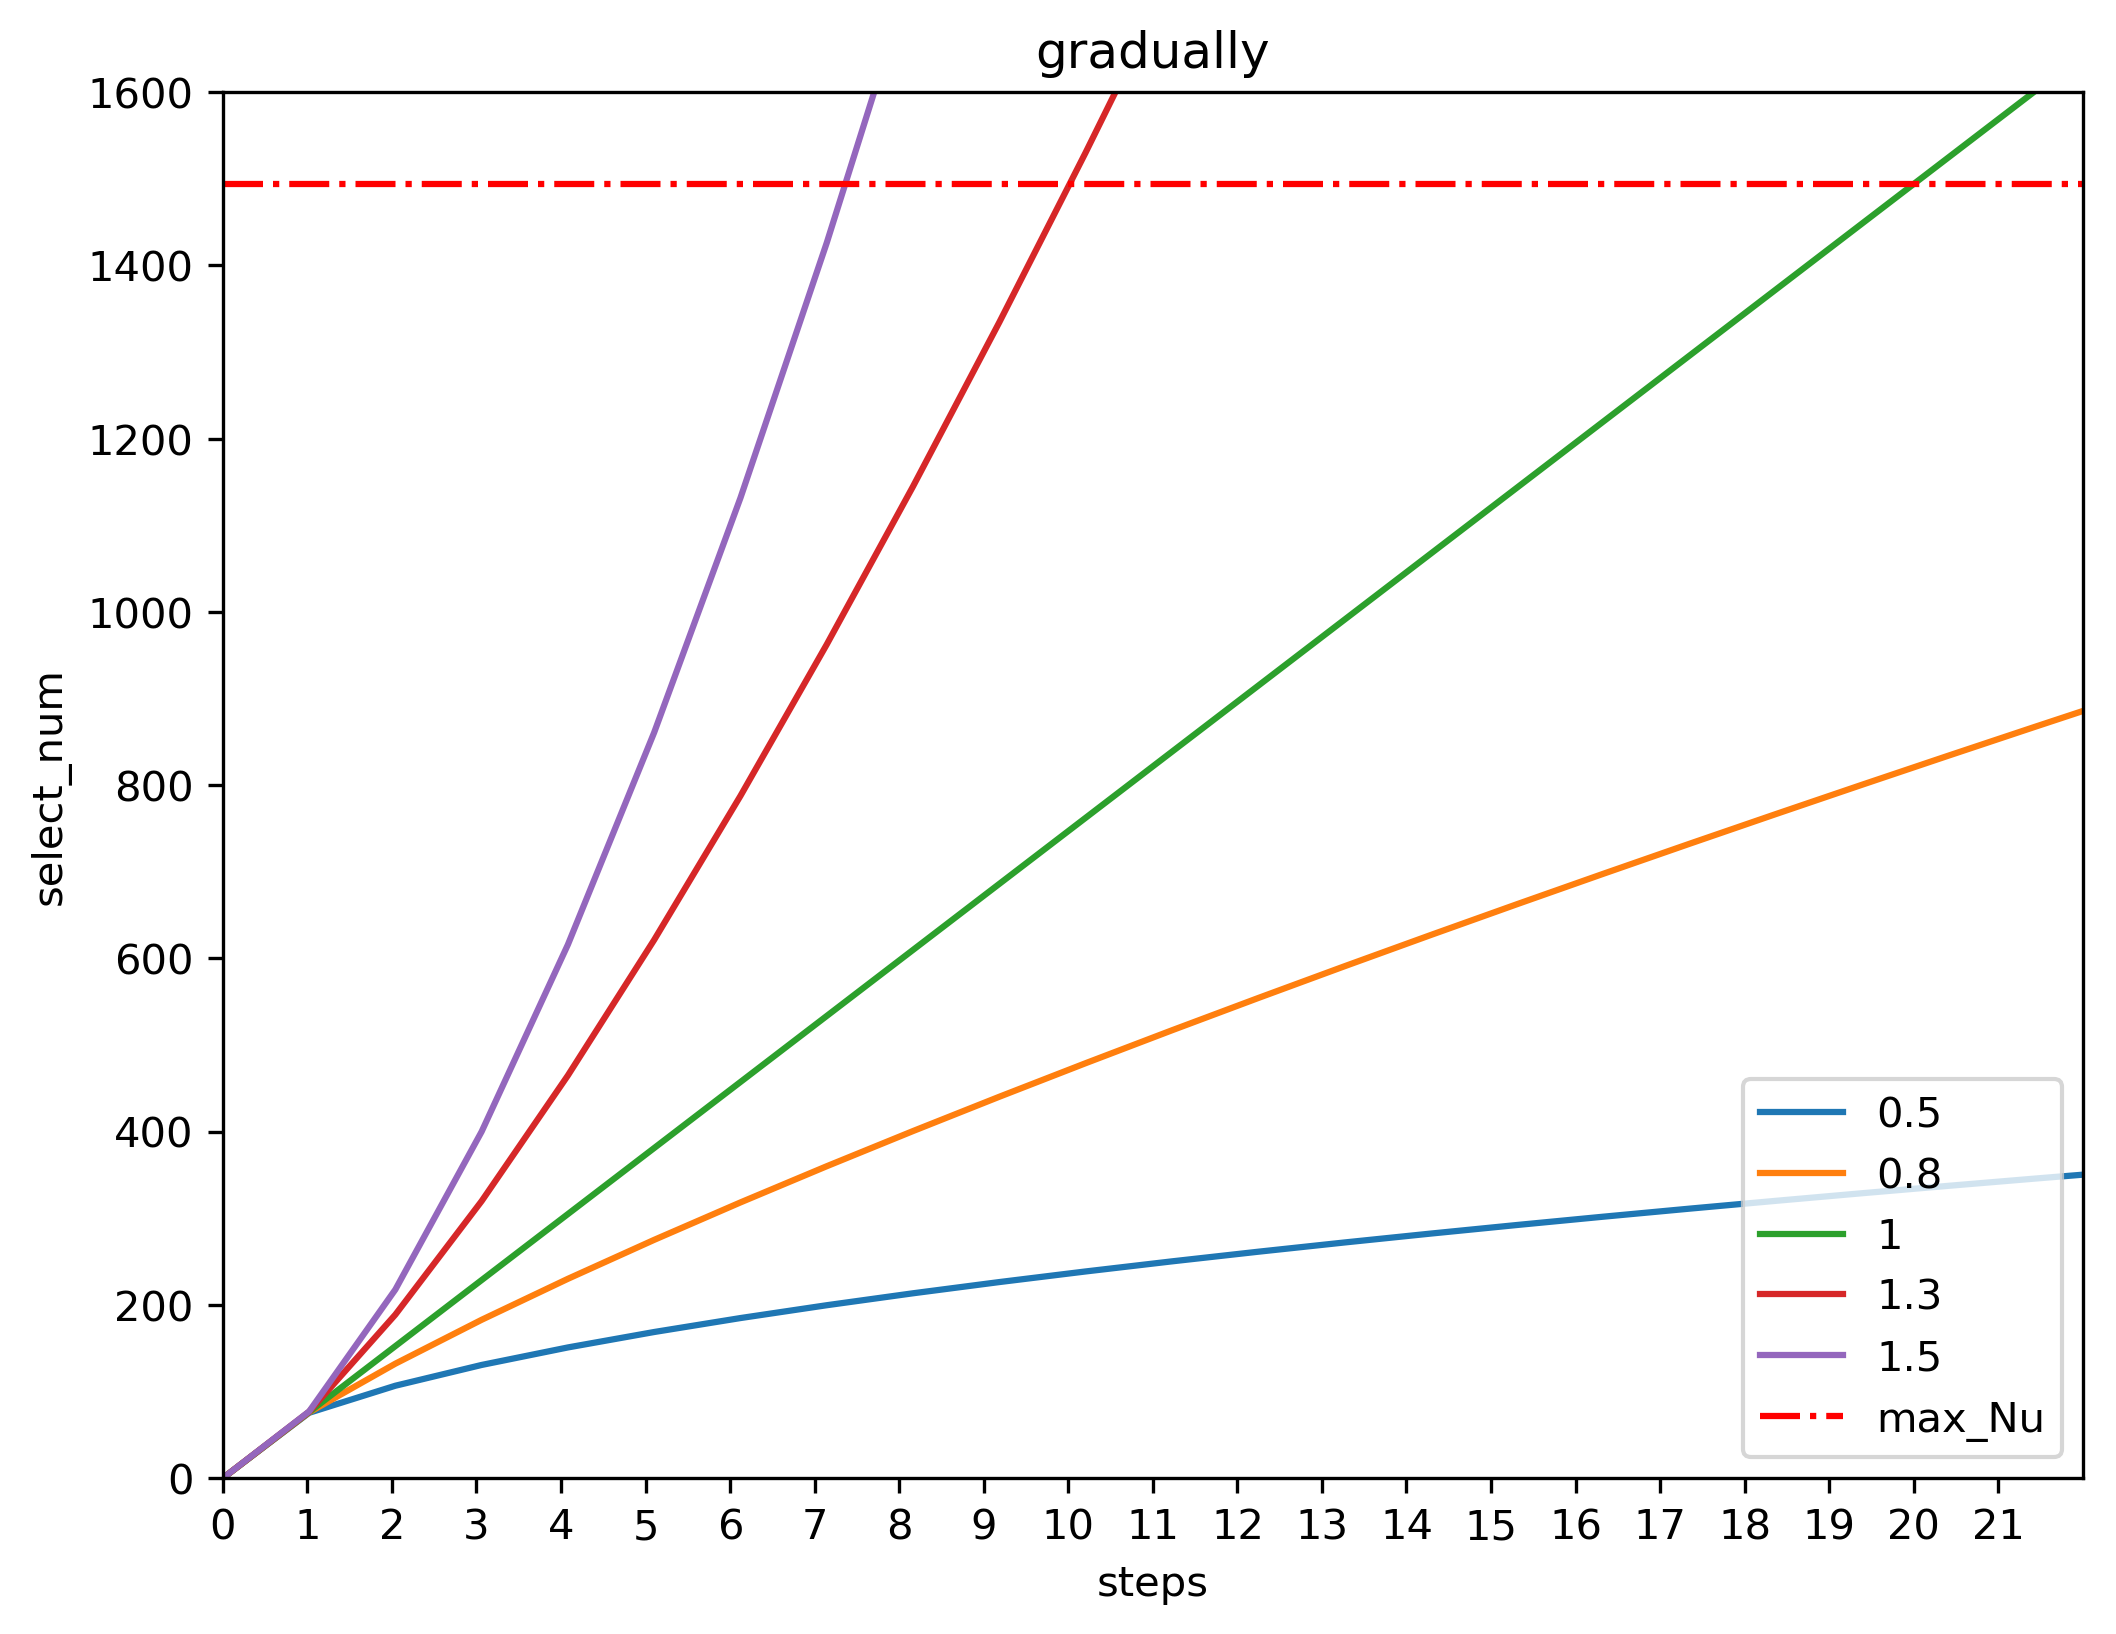
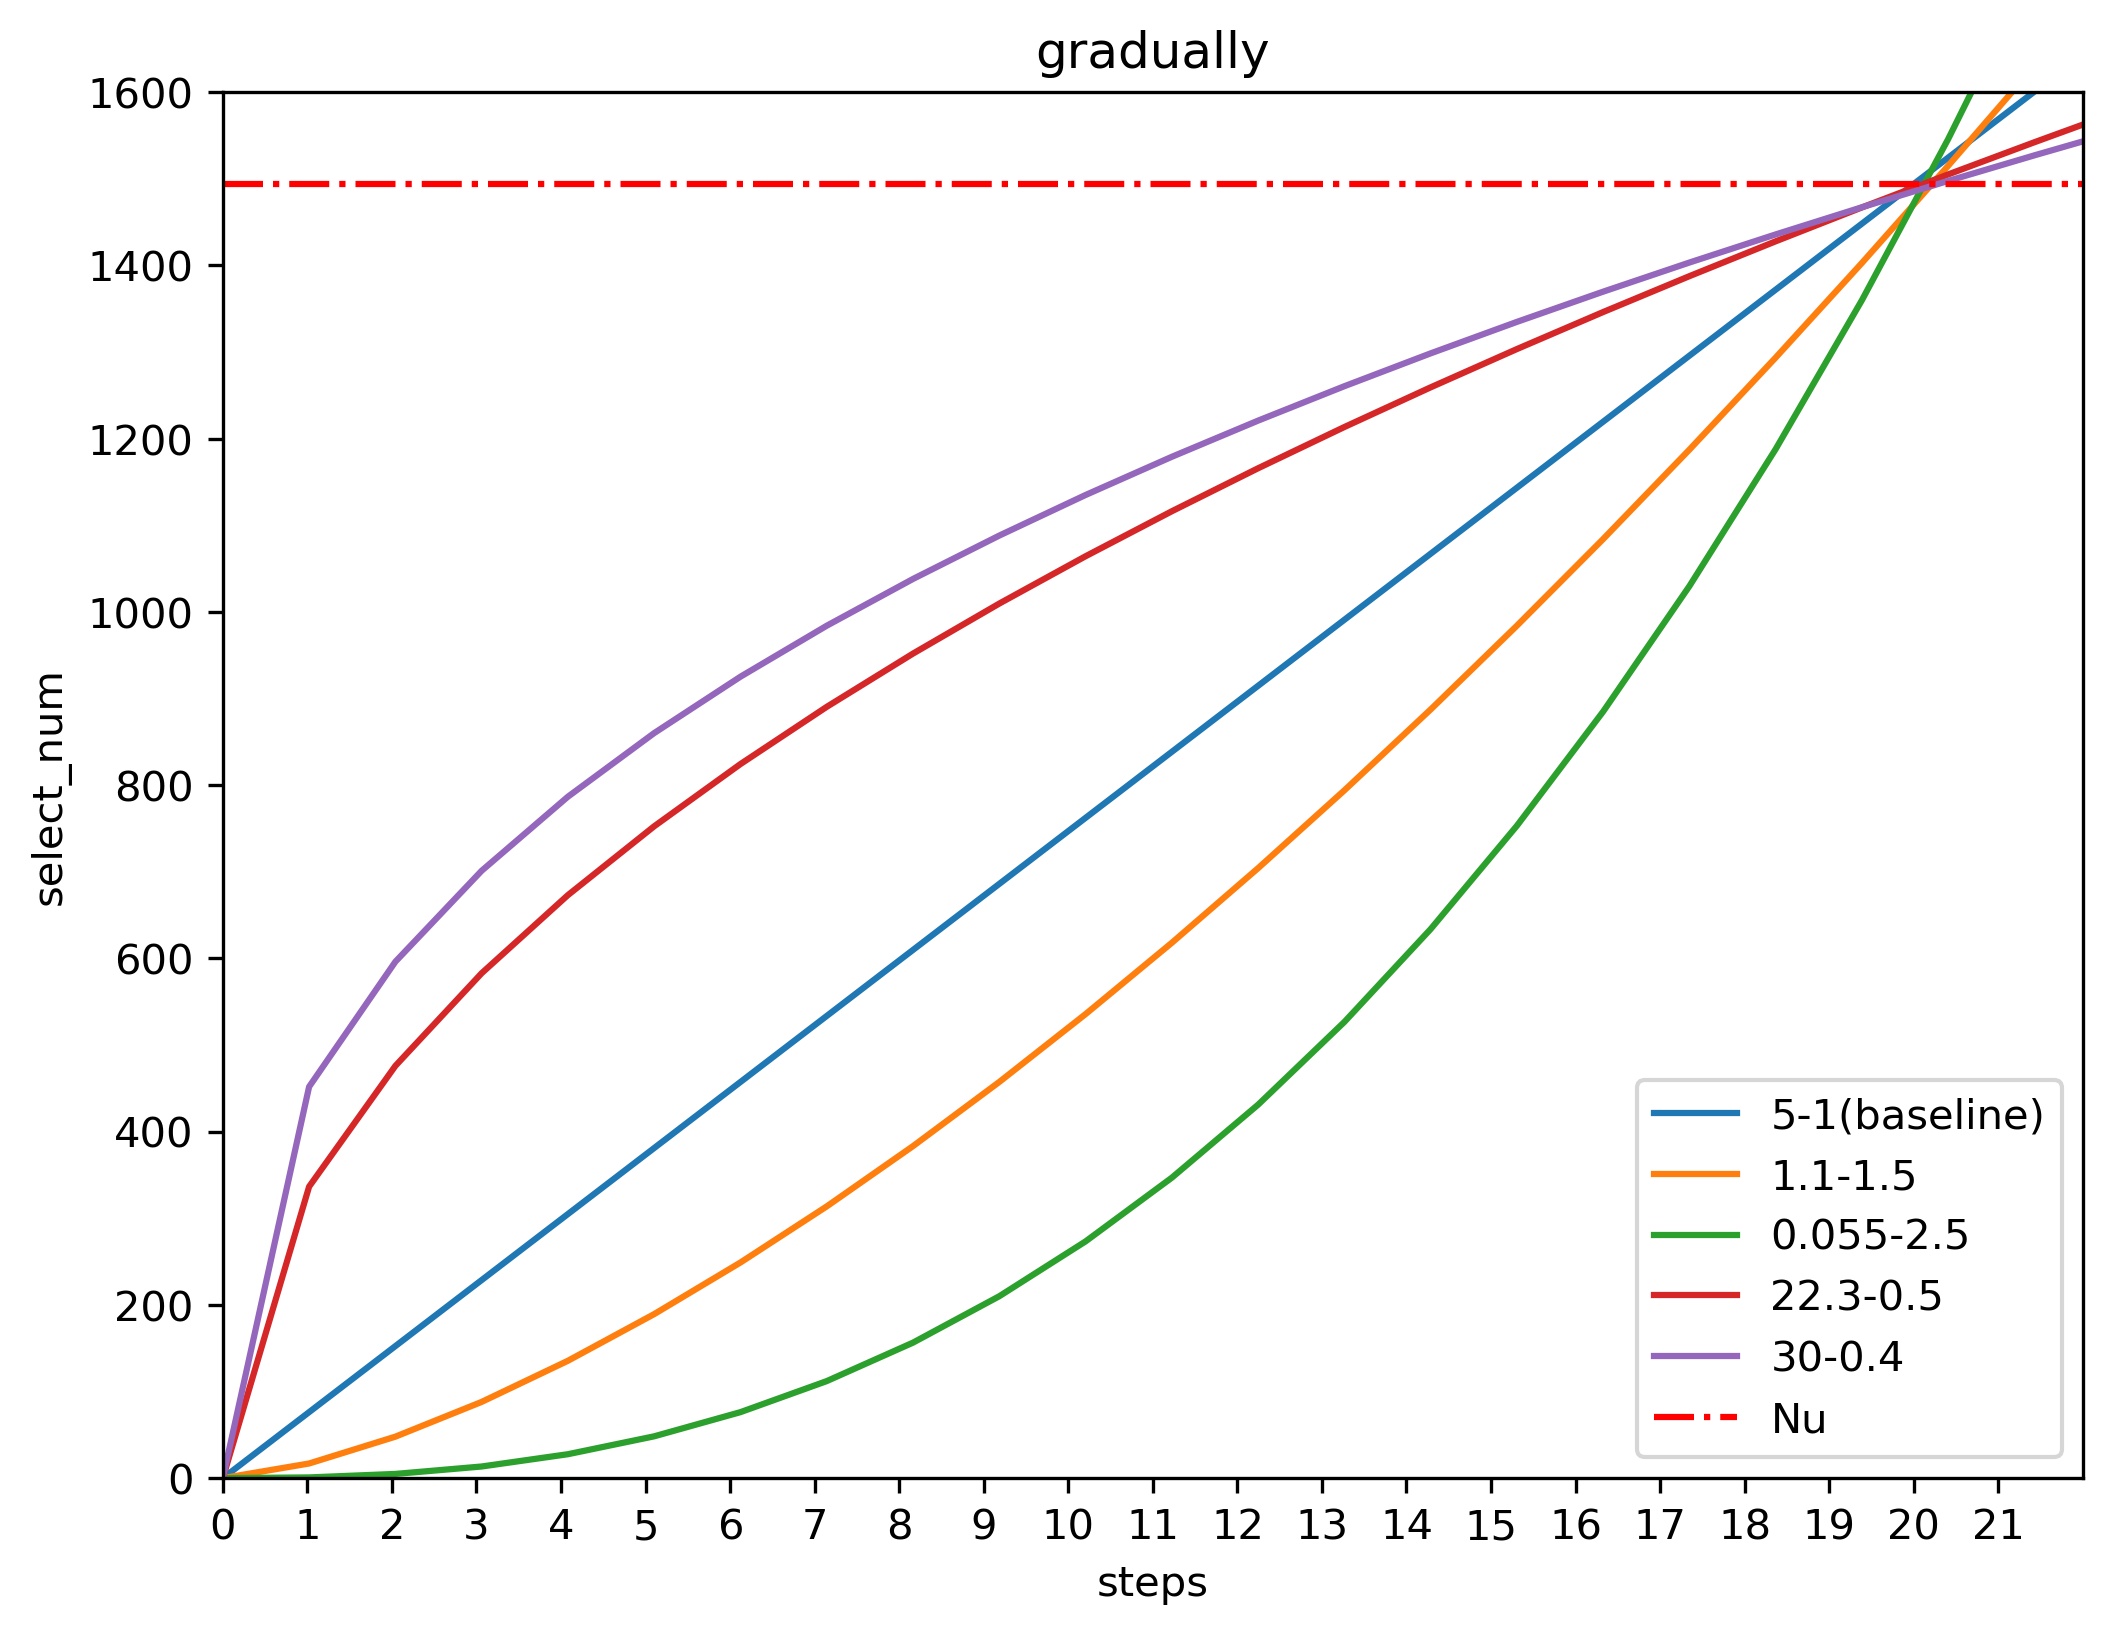
11.15 重新绘制的渐进采样曲线

diff --git a/main.py b/main.py
@@ -27,29 +27,29 @@ def draw_line():
 
     # for q in np.linspace(1,2,0.2):
     plt.figure(figsize=(8, 6), dpi=300)
-    plt.plot(x, Nu * pow(x, 0.5) * 0.05, label="0.5")
-    plt.plot(x, Nu * pow(x, 0.8) * 0.05, label="0.8")
-    plt.plot(x, Nu * pow(x,1) * 0.05,label="1")
-    plt.plot(x, Nu * pow(x,1.3) * 0.05,label="1.3")
-    plt.plot(x, Nu * pow(x,1.5) * 0.05,label="1.5")
-    # plt.plot(x,Nu * pow(x,1.5)*0.011,label ="1.5_0.011")
-    # plt.plot(x, Nu * pow(x, 2.5) * 0.00055, label="2.5_0.0025")
-    # plt.plot(x, Nu * pow(x, 0.5) * 0.223, label="0.5_0.223")
-    # plt.plot(x, Nu * pow(x, 0.4) * 0.3, label="0.4_0.3")
+    # plt.plot(x, Nu * pow(x, 0.5) * 0.05, label="0.5")
+    # plt.plot(x, Nu * pow(x, 0.8) * 0.05, label="0.8")
+    plt.plot(x, Nu * pow(x,1) * 0.05,label="5-1(baseline)")
+    # plt.plot(x, Nu * pow(x,1.3) * 0.05,label="1.3")
+    # plt.plot(x, Nu * pow(x,1.5) * 0.05,label="1.5")
+    plt.plot(x,Nu * pow(x,1.5)*0.011,label ="1.1-1.5")
+    plt.plot(x, Nu * pow(x, 2.5) * 0.00055, label="0.055-2.5")
+    plt.plot(x, Nu * pow(x, 0.5) * 0.223, label="22.3-0.5")
+    plt.plot(x, Nu * pow(x, 0.4) * 0.3, label="30-0.4")
     # for i in [1.5]:
     #     q = i2
     #     y2 = Nu * pow(x, q) * p
     #     plt.plot(x,y2,label=i)
 
-    y3 = -(Nu/2) * np.cos(0.15 *x) + Nu/2
-    y4 = Nu * pow(x,1) * 0.05 -y3
+    # y3 = -(Nu/2) * np.cos(0.15 *x) + Nu/2
+    # y4 = Nu * pow(x,1) * 0.05 -y3
     # plt.plot(x,y3,label="cos")
     # plt.plot(x,y4,label="-cos")
 
 
     # plt.plot(x,y1,'b')
     # plt.plot(x,y2,'g')
-    plt.axhline(y=Nu,ls="-.",c="r",label="max_Nu")
+    plt.axhline(y=Nu,ls="-.",c="r",label="Nu")
     # plt.axhspan(x=6,ls="",c="r")
 
     # plt.xticks(np.arange(0, 144, 12), year)
@@ -490,9 +490,9 @@ if __name__ =="__main__":
     # init_outf2("data5.0_1.0.10_19_14-58-12.txt")
 
     # draw_gradually_compare_all()
-    # draw_line()
+    draw_line()
     # select_pre_with_mAP_for_all()
     # draw_lines_for_one_train(EF_10_q_1pro)
 
-    summary_compare()
+    # summary_compare()
 
